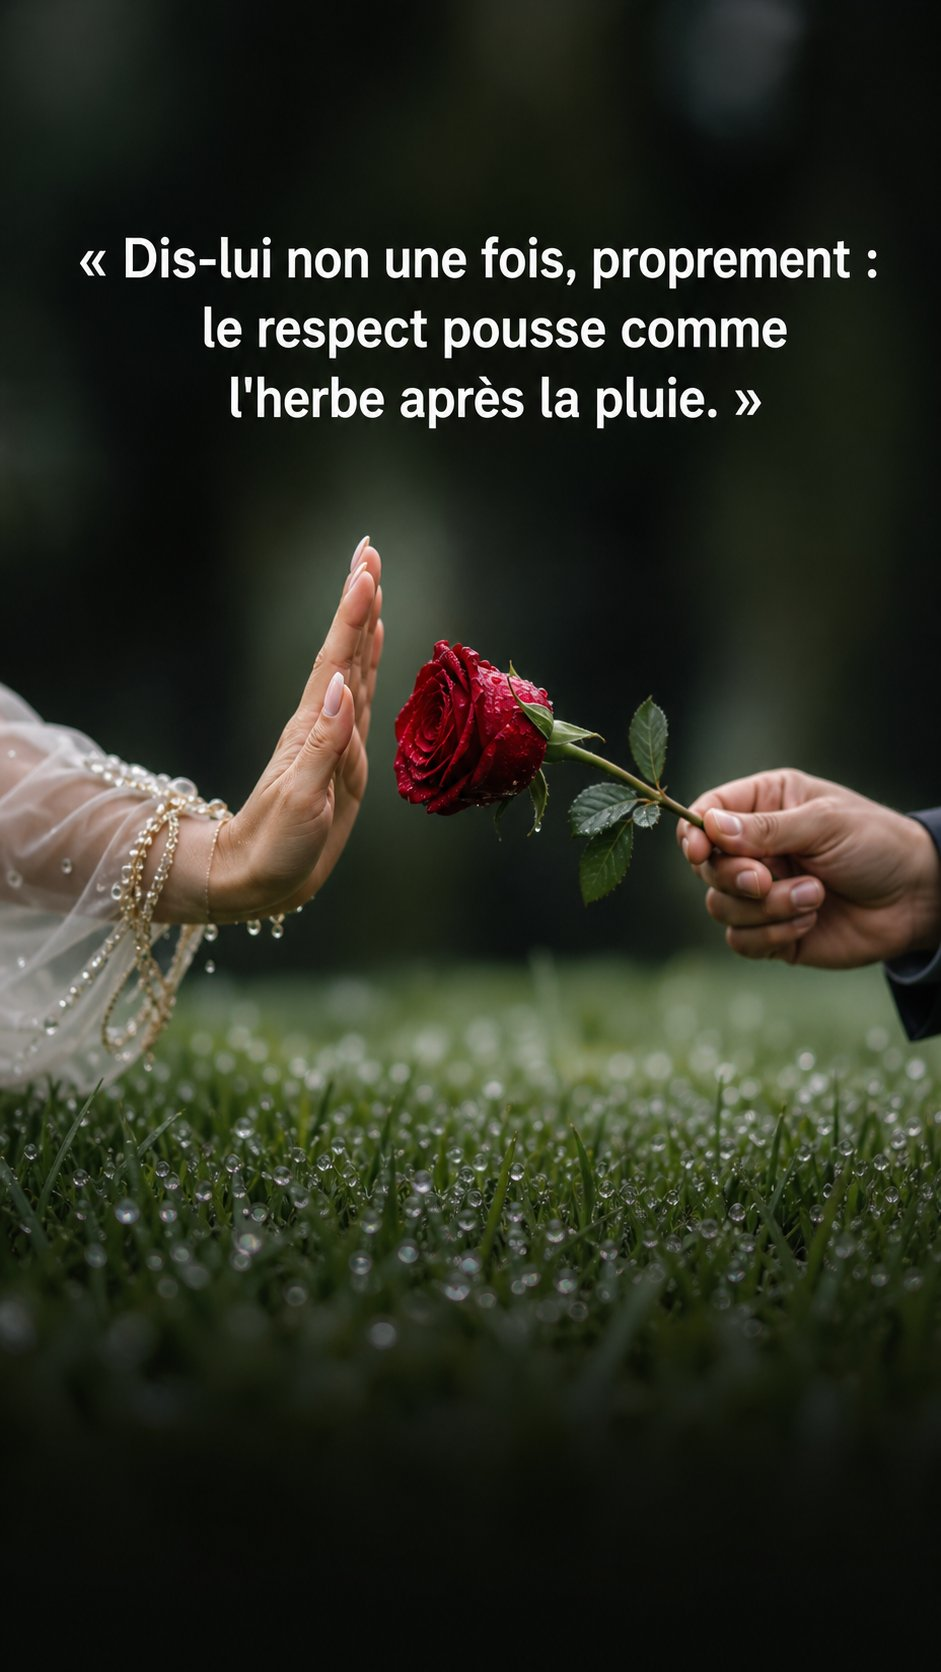
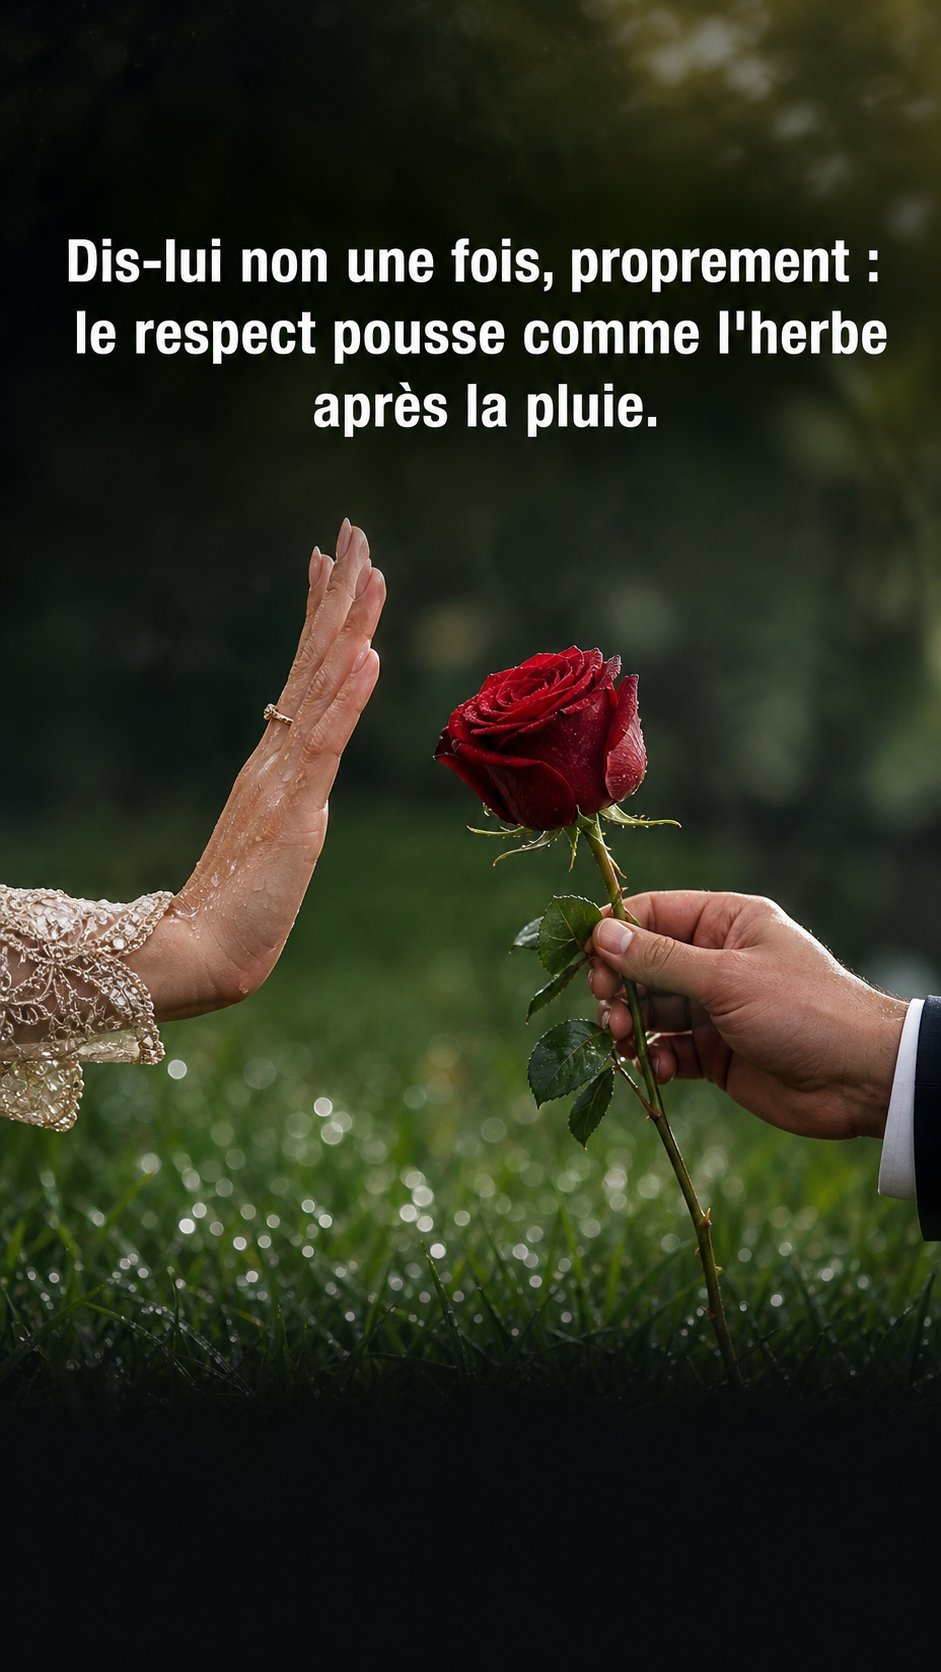
LE DÉSIR complet 131-140 (10/10, theme auteur, classe & original) — story + tiktok v2

diff --git a/dsky-quotes/compose_art.py b/dsky-quotes/compose_art.py
@@ -22,8 +22,8 @@ ART = {  # num -> style d'accent
     116: "MINIMAL", 117: "MINIMAL", 118: "AFRO", 119: "LUXE", 120: "LUXE",
     121: "AFRO", 122: "LUXE", 123: "AFRO", 124: "AFRO", 125: "LUXE",
     126: "MINIMAL", 127: "LUXE", 128: "AFRO", 129: "AFRO", 130: "LUXE",
-    131: "LUXE", 132: "LUXE", 133: "LUXE", 134: "LUXE", 135: "LUXE",
-    136: "LUXE", 137: "MINIMAL", 138: "MINIMAL", 139: "MINIMAL", 140: "AFRO",
+    131: "LUXE", 132: "LUXE", 133: "MINIMAL", 134: "LUXE", 135: "LUXE",
+    136: "LUXE", 137: "MINIMAL", 138: "MINIMAL", 139: "MINIMAL", 140: "MINIMAL",
 }
 
 def brand(num):

diff --git a/dsky-quotes/citations/citations_corrigees.md b/dsky-quotes/citations/citations_corrigees.md
@@ -426,24 +426,24 @@ Si un seul de mes vers a allumé quelque chose en toi, fais-le-moi savoir : comm
 ---
 
 ## SAISON 2 — Série ART VIII (131 → 140) — « LE DÉSIR » — en cours
-*Thème unique imposé par l'auteur : « Donne tout à une femme, elle ne te donnera rien… elle a besoin de souffrir pour aimer. » Traité avec classe — suggestion, jamais explicite. Citations 100 % originales. Orthographe vérifiée 10/10.*
+*Thème unique imposé par l'auteur : « Donne tout à une femme, elle ne te donnera rien… elle a besoin de souffrir pour aimer. » Traité avec classe — suggestion, jamais explicite. Citations 100 % originales. (133-140 à venir.)*
 
 **131.** `LE DISTRIBUTEUR VIDE` — film noir surréaliste — « Donne tout à une femme, elle ne te donnera rien : le désir veut courir aussi. Laisse-lui la piste. »
 
 **132.** `LA PORTE ENTROUVERTE` — photo N&B, fente de lumière — « Elle a besoin de souffrir pour aimer. Souffrir du manque, de l'attente, du doute — jamais de toi. »
 
-**133.** `LE SOLEIL GRATUIT` — nocturne sensuel, lune rouge — « Toujours disponible, tu vaux zéro : le soleil est gratuit, et personne ne le remercie. »
+**133.** `LE SOLEIL GRATUIT` — affiche voyage 50s (lune convoitée, soleil délaissé) — « Toujours disponible, tu vaux zéro : le soleil est gratuit, et personne ne le remercie. »
 
-**134.** `LE HAVRE` — marine tempête, phare d'or — « Sois son havre, pas son domestique : un domestique se remplace, un havre se choisit. »
+**134.** `LE HAVRE` — marine au phare dans la tempête — « Sois son havre, pas son domestique : un domestique se remplace, un havre se choisit. »
 
-**135.** `LA PETITE FAIM` — nature morte baroque, assiette vide — « Une femme qu'on comble cherche ce qui manque. Laisse-lui une petite faim. »
+**135.** `LA PETITE FAIM` — nature morte baroque (l'assiette vide au centre) — « Une femme qu'on comble cherche ce qui manque. Laisse-lui une petite faim. »
 
-**136.** `LES 20 %` — photo intime, cahier de rêves — « Aime-la à 80 %, garde 20 % pour tes rêves : c'est ce 20 % qu'elle aimera demain. »
+**136.** `LES 20 %` — photo domestique dorée (l'homme concentré, elle à la porte) — « Aime-la à 80 %, garde 20 % pour tes rêves : c'est ce 20 % qu'elle aimera demain. »
 
-**137.** `MEUBLE OU PENSÉE` — conceptuel, fauteuil drapé / horizon — « Trop proche, tu deviens meuble ; un peu loin, tu deviens pensée. »
+**137.** `MEUBLE / PENSÉE` — photo conceptuelle (fauteuil drapé vs silhouette à l'horizon) — « Trop proche, tu deviens meuble ; un peu loin, tu deviens pensée. Le désir vit de distance. »
 
 **138.** `LA LARME` — film noir, bar nocturne — « Pleurer une femme une nuit, ça va. Trois nuits, c'est une habitude : elle n'épousera pas ta larme. »
 
-**139.** `LE NON PROPRE` — macro rose refusée après la pluie — « Dis-lui non une fois, proprement : le respect pousse comme l'herbe après la pluie. »
+**139.** `LE NON PROPRE` — macro rose refusée, pluie — « Dis-lui non une fois, proprement : le respect pousse comme l'herbe après la pluie. »
 
-**140.** `LE JARDIN DU VOISIN` — gouache, arrosoir par-dessus le mur — « Donner sans recevoir, c'est arroser la plante du voisin : elle poussera, mais pas pour toi. »
+**140.** `LA PLANTE DU VOISIN` — gouache narrative (arrosage par-dessus le mur) — « Donner sans recevoir, c'est arroser la plante du voisin : elle poussera, mais pas pour toi. »

diff --git a/dsky-quotes/README.md b/dsky-quotes/README.md
@@ -84,7 +84,7 @@ Polices : SIL Open Font License.
 
 # 🎨 Série ART (65 → 90)
 
-Série ART I→VIII (65 → 140). La citation est **typographiée par l'IA à l'intérieur de l'œuvre elle-même**
+Série ART I→IV (65 → 100). La citation est **typographiée par l'IA à l'intérieur de l'œuvre elle-même**
 (effet chic, vocabulaire simple). Le code n'ajoute plus que le branding : badge `DSKY 🇧🇯`,
 N°, signature, drapeau et barre CTA dans la bande basse — moteur `compose_art.py`.
 
@@ -160,14 +160,14 @@ N°, signature, drapeau et barre CTA dans la bande basse — moteur `compose_art
 | 130 | Changer de propriétaire | Art Déco |
 | 131 | Le distributeur vide | film noir surréaliste |
 | 132 | La porte entrouverte | photo N&B |
-| 133 | Le soleil gratuit | nocturne, lune rouge |
-| 134 | Le havre | marine tempête |
+| 133 | Le soleil gratuit | affiche voyage 50s |
+| 134 | Le havre | marine au phare |
 | 135 | La petite faim | nature morte baroque |
-| 136 | Les 20 % | cahier de rêves |
-| 137 | Meuble ou pensée | fauteuil drapé / horizon |
+| 136 | Les 20 % | photo domestique |
+| 137 | Meuble / pensée | photo conceptuelle |
 | 138 | La larme | film noir |
 | 139 | Le non propre | rose refusée |
-| 140 | Le jardin du voisin | gouache |
+| 140 | La plante du voisin | gouache narrative |
 
 Textes intégraux : `citations/citations_corrigees.md` (sections Série ART, ART II, ART III).
 
